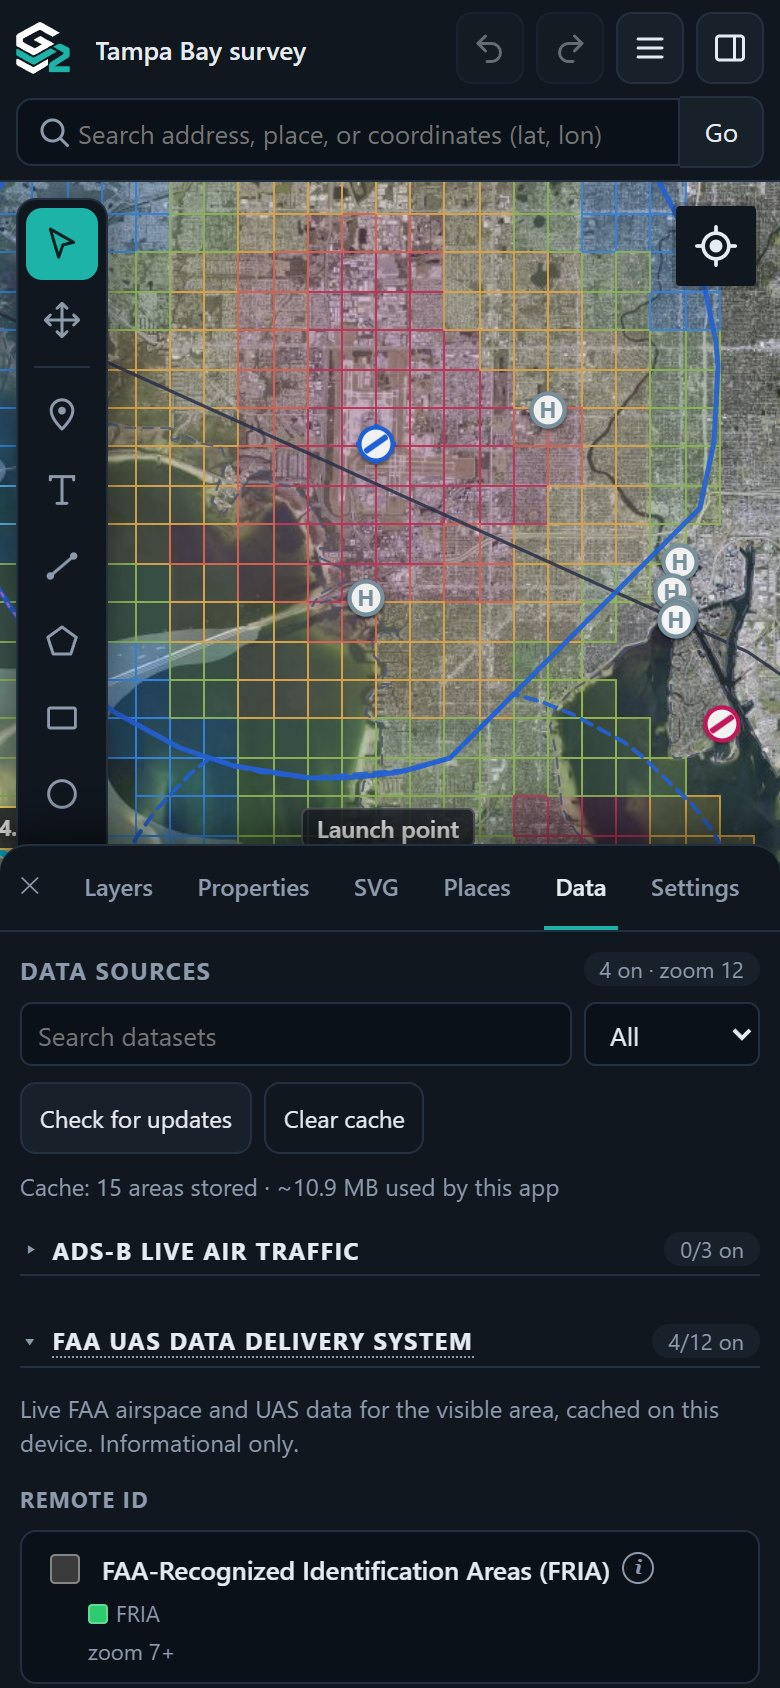
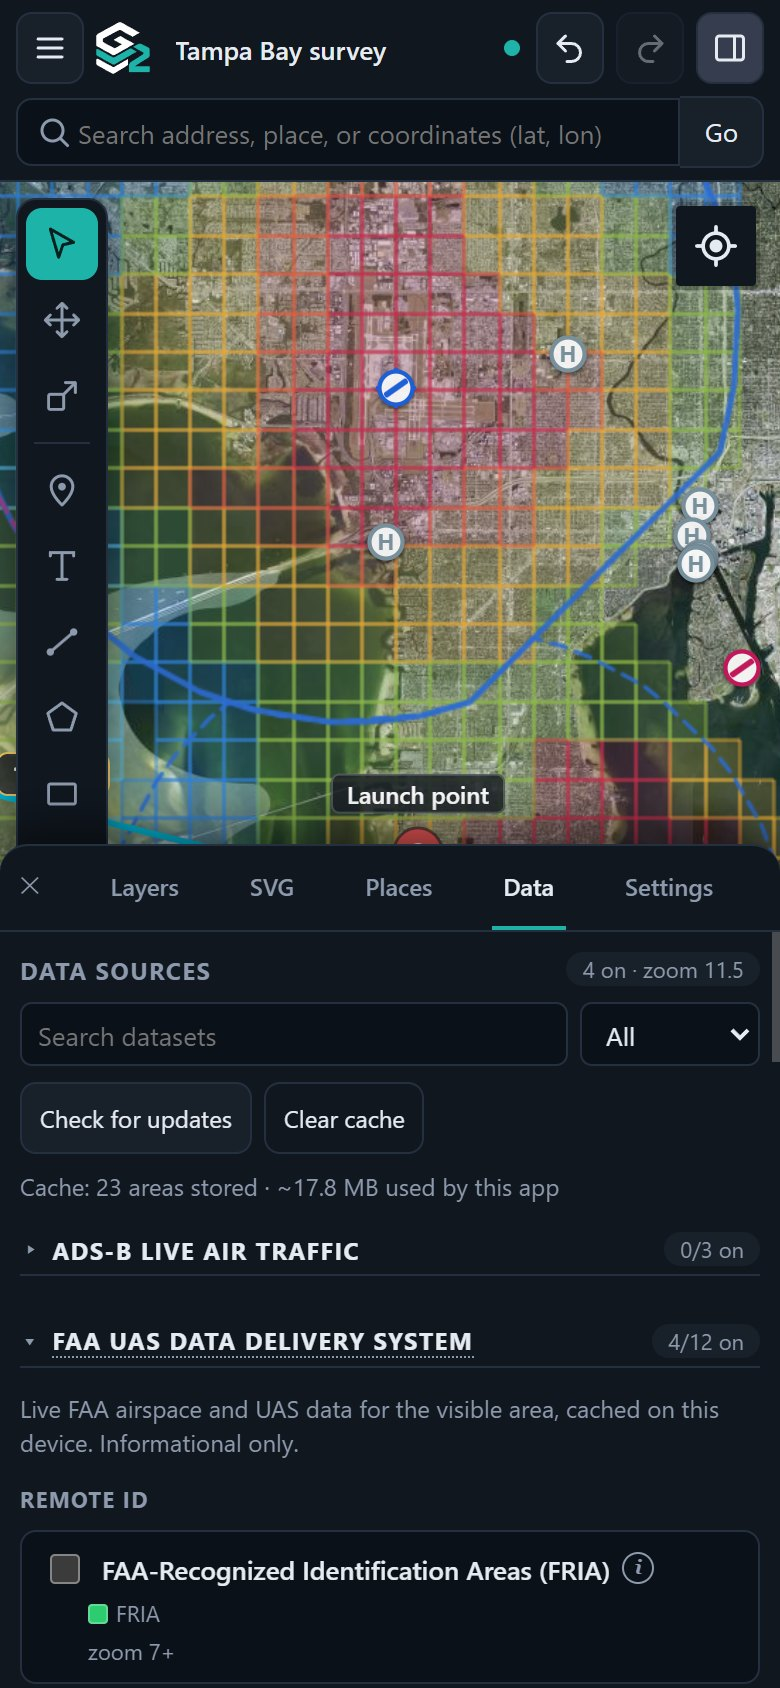
docs: README with a linked title and badges, the new features, fresh screenshots
The title links to g2.luiscintron.com; badges for the live site, the latest
release, Leaflet and PWA + Electron (the release badge replaces the version line,
so the release script no longer rewrites the README). Features, shortcuts and
licenses cover this branch's additions, and the screenshots are retaken from
the current build.

diff --git a/scripts/release.js b/scripts/release.js
@@ -8,7 +8,8 @@
  *     only chore/docs/ci/style/refactor/test/build commits -> no release (exit 0, released=false)
  * - --ci: non-interactive mode for GitHub Actions; writes released/tag/version to $GITHUB_OUTPUT
  * - Writes the new version everywhere it is displayed: package.json, js/util.js (MB.APP.version, shown in
- *   the About dialog), sw.js (cache name), index.html (splash) and README.md
+ *   the About dialog), sw.js (cache name) and index.html (splash); the README shows the latest release
+ *   with a badge
  * - Commits "chore(release): vX.Y.Z", tags vX.Y.Z and pushes. The GitHub "Release" workflow, which runs this
  *   script when started by hand, then builds the Windows, macOS and Linux installers, publishes the GitHub
  *   Release and deploys GitHub Pages from that tag.
@@ -108,8 +109,7 @@ const edits = [
   ['package.json', s => s.replace(/"version":\s*"[^"]+"/, `"version": "${next}"`)],
   ['js/util.js', s => s.replace(/(MB\.APP\s*=\s*\{[^}]*version:\s*')[^']*(')/, `$1${next}$2`)],
   ['sw.js', s => s.replace(/const VERSION = '[^']*';[^\n]*/, `const VERSION = 'gengis-${next}'; // app version; bump via scripts/release.js`)],
-  ['index.html', s => s.replace(/(<div class="ver">Version )[^<]*(<\/div>)/, `$1${next}$2`)],
-  ['README.md', s => s.replace(/^Version .*$/m, `Version ${next}`)]
+  ['index.html', s => s.replace(/(<div class="ver">Version )[^<]*(<\/div>)/, `$1${next}$2`)]
 ];
 for (const [file, fn] of edits) {
   const before = read(file), after = fn(before);
@@ -119,7 +119,7 @@ for (const [file, fn] of edits) {
 
 if (flag('dry')) { console.log('Dry run: nothing written, committed or tagged.'); output({ released: 'false', tag, version: next }); process.exit(0); }
 
-sh('git add package.json js/util.js sw.js index.html README.md');
+sh('git add package.json js/util.js sw.js index.html');
 sh(`git commit -q -m "chore(release): ${tag}"`);
 sh(`git tag -a ${tag} -m "GenGIS ${tag}"`);
 console.log('Committed and tagged ' + tag);

diff --git a/README.md b/README.md
@@ -1,16 +1,17 @@
-# GenGIS (G²)
+# 🗺 [GenGIS (G²)](https://g2.luiscintron.com)
+
+[![GenGIS Live](https://img.shields.io/badge/Live-g2.luiscintron.com-success?style=for-the-badge&logo=githubpages&logoColor=white)](https://g2.luiscintron.com)
+[![Latest release](https://img.shields.io/github/v/release/lcintron/gengis?style=for-the-badge&logo=github&label=Release)](https://github.com/lcintron/gengis/releases/latest)
+[![Leaflet](https://img.shields.io/badge/Leaflet-1.9-199900?style=for-the-badge&logo=leaflet&logoColor=white)](https://leafletjs.com/)
+[![PWA and Electron](https://img.shields.io/badge/PWA%20%2B%20Electron-Web%20%26%20Desktop-47848F?style=for-the-badge&logo=electron&logoColor=white)](https://github.com/lcintron/gengis/releases/latest)
 
 ![GenGIS](branding/png/gengis-banner-1200x300.png)
 
-**[Open GenGIS → g2.luiscintron.com](https://g2.luiscintron.com)** · [Desktop installers](https://github.com/lcintron/gengis/releases/latest)
-
-Version 0.8.1
-
-A free map builder that runs in the browser (installable, works offline) or as a desktop app. Draw and measure on the map, organize your work in layers, and overlay live FAA airspace, LAANC ceilings and air traffic. No account or API key needed.
+A free map builder that runs in the browser (installable, works offline) or as a desktop app ([installers](https://github.com/lcintron/gengis/releases/latest) for Windows, macOS and Linux). Draw and measure on the map, organize your work in layers, and overlay live FAA airspace, LAANC ceilings and air traffic. No account or API key needed.
 
 ![GenGIS on the desktop: Tampa Bay with airspace and LAANC ceilings](docs/screenshots/desktop-map.jpg)
 
-![One click lists your object and every airspace under it](docs/screenshots/desktop-identify.jpg)
+![One click lists your object and every airspace under it, and Properties describes the data feature](docs/screenshots/desktop-identify.jpg)
 
 <p align="center">
   <img src="docs/screenshots/mobile-map.jpg" width="250" alt="GenGIS on a phone">
@@ -20,15 +21,16 @@ A free map builder that runs in the browser (installable, works offline) or as a
 
 ## Features
 
-- **Draw and edit** markers, text, lines, polygons, rectangles, circles and SVG images, with snapping, multi-select, joining lines into shapes, name labels and full styling. By default, each new object gets its own color.
-- **Measure** distances and areas in metric, imperial or nautical units, with a scale bar. A circle shows its radius while you draw it, and lines, shapes, markers and SVG images can show their length, perimeter, area, radius or position on the map (ticked in Properties).
-- **Layers** with show/hide, lock and draw order; undo/redo; right-click menus; presenter mode.
-- **Projects** save automatically on the device as you work, with recent projects and earlier copies to restore (Project → Recent projects); save/open as `.gengis.json`; GeoJSON import/export.
-- **Project files in the desktop app**: each named project is also kept as a file, `Documents\GenGIS\<name>.gengis.json` by default (Settings → Project to pick another folder), saved a moment after every change and when the window closes; Save as… and recent files under Project → Recent projects.
+- **Draw and edit** markers, text, lines, polygons, rectangles, circles and SVG images, with snapping, name labels and full styling. By default, each new object gets its own color. Texts take a font, a background opacity and an editable shadow.
+- **Move and resize**: the Move tool drags objects and shows a box around what it moves; the Scale tool resizes from any corner or side (Shift keeps proportions, Alt resizes from the center).
+- **Combine and reuse**: multi-select, join lines into shapes, join overlapping shapes into one polygon, duplicate, and copy a style to paste on other objects.
+- **Measure** distances and areas in metric, imperial or nautical units, with a scale bar. A circle shows its radius while you draw it, and objects can show their length, perimeter, area, radius or position on the map.
+- **Layers** with show/hide, lock and draw order, duplicate, and **groups**: a grouped layer's objects are selected, moved, resized and deleted together. Locked objects can still be selected and inspected. Undo/redo, right-click menus, presenter mode with full screen.
+- **Projects** save automatically on the device as you work, with recent projects and earlier copies to restore; save/open as `.gengis.json`; GeoJSON import/export. In the desktop app each named project is also kept as a file (`Documents\GenGIS` by default).
 - **Search** addresses, places and coordinates; find points of interest; center on **your location**.
-- **FAA data**, live for the area in view: Class B–E airspace with floors and ceilings, special use airspace, LAANC ceilings, security flight restrictions, TFRs, airports (with radio frequencies) and more. Click anywhere to see everything under that point. Any public ArcGIS layer can be added.
+- **FAA data**, live for the area in view: Class B–E airspace with floors and ceilings, special use airspace, LAANC ceilings, security flight restrictions, TFRs, airports (with radio frequencies) and more. Click anywhere to see everything under that point; the feature's source, geometry and attributes show in Properties. Country and state borders at every zoom. Any public ArcGIS layer can be added.
 - **Live air traffic (ADS-B)** from your own dump1090 receiver or the adsb.fi and adsb.lol networks, with type icons colored by altitude and aircraft look-up.
-- **Base maps**: Esri World Imagery (default), OpenStreetMap, OpenTopoMap, CyclOSM, CARTO, plus your own XYZ/WMS or keyed providers.
+- **Base maps**: Esri World Imagery (default), OpenStreetMap, OpenTopoMap, CyclOSM, CARTO, plus your own XYZ/WMS or keyed providers. Zoom in quarter steps.
 - **Offline**: download map tiles and data for an area ahead of time.
 
 Informational only: not for navigation or flight authorization.
@@ -60,18 +62,18 @@ Releases run in CI on demand: **Actions → Release → Run workflow** on `main`
 
 | Key | Action |
 | --- | --- |
-| V / G | Select / Move |
+| V / G / K | Select / Move / Scale |
 | M / T / L / P / R / C / S | Marker, Text, Line, Polygon, Rectangle, Circle, SVG |
 | D / A | Measure distance / area |
 | F | Presenter mode |
 | Esc / Delete | Cancel or deselect / delete |
-| Ctrl/Cmd + Z / Y / D / S | Undo / redo / duplicate / save |
+| Ctrl/Cmd + Z / Y / D / S | Undo / redo / duplicate (a group: its layer) / save |
 | / | Search |
 
 ## Data sources and fair use
 
-Map tiles, [Nominatim](https://operations.osmfoundation.org/policies/nominatim/) search and the [Overpass API](https://wiki.openstreetmap.org/wiki/Overpass_API) are free public services with their own usage policies; attribution is shown on the map. FAA data comes from the [FAA UAS Data Delivery System](https://udds-faa.opendata.arcgis.com/). Air traffic from [adsb.fi](https://github.com/adsbfi/opendata) is for personal, non-commercial use and [adsb.lol](https://adsb.lol) is ODbL; the app polls no faster than each allows. For heavy use, point the app at your own servers (Project → Map & search APIs).
+Map tiles, [Nominatim](https://operations.osmfoundation.org/policies/nominatim/) search and the [Overpass API](https://wiki.openstreetmap.org/wiki/Overpass_API) are free public services with their own usage policies; attribution is shown on the map. FAA data comes from the [FAA UAS Data Delivery System](https://udds-faa.opendata.arcgis.com/) and borders from the [Esri Living Atlas](https://livingatlas.arcgis.com/). Air traffic from [adsb.fi](https://github.com/adsbfi/opendata) is for personal, non-commercial use and [adsb.lol](https://adsb.lol) is ODbL; the app polls no faster than each allows. For heavy use, point the app at your own servers (Project → Map & search APIs).
 
 ## License
 
-[MIT](LICENSE). Bundled Leaflet (BSD 2-Clause) and Leaflet-Geoman (MIT) keep their own licenses.
+[MIT](LICENSE). Bundled Leaflet (BSD 2-Clause), Leaflet-Geoman (MIT) and polygon-clipping (MIT) keep their own licenses.
